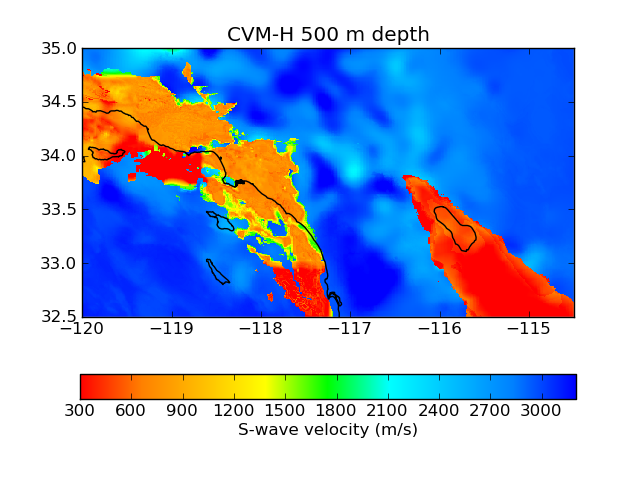
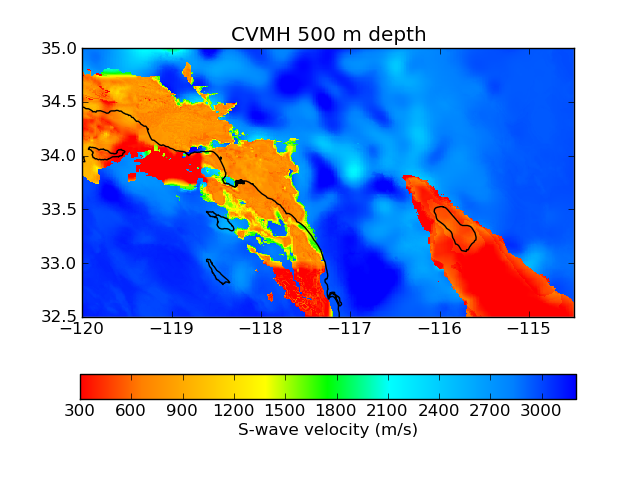
cvm

Changed region(s): [[0.3438, 0.0312, 0.6875, 0.0938]]

diff --git a/www/index.html b/www/index.html
@@ -3,11 +3,9 @@
 <html xmlns="http://www.w3.org/1999/xhtml" xml:lang="en" lang="en">
 <head>
 <meta http-equiv="Content-Type" content="text/html; charset=utf-8" />
-<meta name="generator" content="Docutils 0.6: http://docutils.sourceforge.net/" />
+<meta name="generator" content="Docutils 0.7: http://docutils.sourceforge.net/" />
 <title>Coseis</title>
 <style type="text/css">
-
-/* CSS stylesheet */
 
 body {
     max-width: 760px;
@@ -190,7 +188,7 @@ td {
 <li>The Support Operator Rupture Dynamics (<a class="reference external" href="sord.html">SORD</a>) code for modeling spontaneous
 rupture and 3D wave propagation.</li>
 <li>SCEC Community Velocity Models (CVM) codes, with MPI parallelization for
-<a class="reference external" href="http://www.data.scec.org/3Dvelocity/">version 4</a>, and new <a class="reference external" href="http://earth.usc.edu/~gely/cvmh/">geotechnical layer implementation</a> for the
+<a class="reference external" href="http://www.data.scec.org/3Dvelocity/">Magistrale version</a>, and new <a class="reference external" href="http://earth.usc.edu/~gely/cvmh/">geotechnical layer implementation</a> for the
 <a class="reference external" href="http://structure.harvard.edu/cvm-h/">Harvard version</a>.</li>
 <li><a class="reference external" href="http://scec.usc.edu/websims">WebSims</a> web application for cataloging, exploring, and disseminating large
 numerical simulations data sets.</li>
@@ -208,9 +206,9 @@ are frequent and it has known bugs!</p>
 <h3>System requirements</h3>
 <ul class="simple">
 <li><a class="reference external" href="http://www.python.org/">Python</a>, and <a class="reference external" href="http://numpy.scipy.org/">NumPy</a> (Numerical Python).</li>
-<li>(+) Fortran 95 compiler.  Required only for SORD and CVM4 modules.</li>
+<li>(+) Fortran 95 compiler.  Required only for SORD and CVM modules.</li>
 <li>(+) Message Passing Interface (MPI) library.  Required only for
-multiprocessing with SORD and CVM4.</li>
+multiprocessing with SORD and CVM.</li>
 <li>(+) <a class="reference external" href="http://matplotlib.sourceforge.net/">Matplotlib</a>, <a class="reference external" href="http://www.scipy.org/">SciPy</a>, and Pyproj Python packages.  Required only for
 supplemental plotting, signal processing, and mesh generation utilities.</li>
 <li>(+) <a class="reference external" href="http://git-scm.com/">Git</a> version control system.  Useful for development and staying updated
@@ -305,7 +303,7 @@ python setup.py --machine=tacc-ranger build path
 <h3>Examples</h3>
 <div class="section" id="cvm-depth-planes">
 <h4>CVM depth planes</h4>
-<img alt="../scripts/cvm/cvm4-vs500.png" src="../scripts/cvm/cvm4-vs500.png" />
+<img alt="../scripts/cvm/cvm-vs500.png" src="../scripts/cvm/cvm-vs500.png" />
 <img alt="../scripts/cvm/cvmh-vs500.png" src="../scripts/cvm/cvmh-vs500.png" />
 <p>Extract S-wave velocity at 500 meters depth. Plot using Matplotlib</p>
 <pre class="literal-block">
@@ -317,7 +315,7 @@ python plane.py
 </div>
 <div class="section" id="cvm-fence-diagram">
 <h4>CVM fence diagram</h4>
-<img alt="../scripts/cvm/cvm4-vp-fence.png" src="../scripts/cvm/cvm4-vp-fence.png" />
+<img alt="../scripts/cvm/cvm-vp-fence.png" src="../scripts/cvm/cvm-vp-fence.png" />
 <p>Build a fence diagram similar to Magistrale (2000) figure 10. Plot using
 Mayavi:</p>
 <pre class="literal-block">
@@ -327,9 +325,9 @@ python fence.py
 <p>Source code:
 <a class="reference external" href="../scripts/cvm/fence.py">fence.py</a></p>
 </div>
-<div class="section" id="cvm-4-basin-depth">
-<h4>CVM-4 Basin depth</h4>
-<img alt="../scripts/basindepth/cvm4-z25.png" src="../scripts/basindepth/cvm4-z25.png" />
+<div class="section" id="cvm-basin-depth">
+<h4>CVM Basin depth</h4>
+<img alt="../scripts/basindepth/cvm-z25.png" src="../scripts/basindepth/cvm-z25.png" />
 <p>Extract 3D mesh and search for the shallowest surface of Vs = 2.5 km/s.
 Plot over topography using Mayavi:</p>
 <pre class="literal-block">

diff --git a/www/sord.html b/www/sord.html
@@ -3,11 +3,9 @@
 <html xmlns="http://www.w3.org/1999/xhtml" xml:lang="en" lang="en">
 <head>
 <meta http-equiv="Content-Type" content="text/html; charset=utf-8" />
-<meta name="generator" content="Docutils 0.6: http://docutils.sourceforge.net/" />
+<meta name="generator" content="Docutils 0.7: http://docutils.sourceforge.net/" />
 <title>SORD</title>
 <style type="text/css">
-
-/* CSS stylesheet */
 
 body {
     max-width: 760px;
@@ -264,31 +262,31 @@ python example.py -i
 <a class="reference external" href="../scripts/sord/example.py">sim.py</a>:</p>
 <pre class="literal-block">
 #!/usr/bin/env python
-import cst                                # import the Coseis module
-delta = 100.0, 100.0, 100.0, 0.0075       # step length in (x, y, z, t)
-shape = 61, 61, 61, 60                    # mesh size in (x, y, z, t)
-fieldio = [                               # field variable input and output
-    ( '=',  'rho', [], 2670.0 ),          # material density
-    ( '=',  'vp',  [], 6000.0 ),          # material P-wave velocity
-    ( '=',  'vs',  [], 3464.0 ),          # material S-wave velocity
-    ( '=',  'gam', [], 0.3    ),          # material viscosity
-    ( '=w', 'v1',  [0,0,31,-1], 'vx' ),   # write X velocity slice output
-    ( '=w', 'v2',  [0,0,31,-1], 'vy' ),   # write Y velocity slice output
+import cst                                  # import the Coseis module
+delta = 100.0, 100.0, 100.0, 0.0075         # step length in (x, y, z, t)
+shape = 61, 61, 61, 60                      # mesh size in (x, y, z, t)
+fieldio = [                                 # field variable input and output
+    ( '=',  'rho', [], 2670.0 ),            # material density
+    ( '=',  'vp',  [], 6000.0 ),            # material P-wave velocity
+    ( '=',  'vs',  [], 3464.0 ),            # material S-wave velocity
+    ( '=',  'gam', [], 0.3    ),            # material viscosity
+    ( '=w', 'v1',  [0,0,31,-1], 'vx.bin' ), # write X velocity slice output
+    ( '=w', 'v2',  [0,0,31,-1], 'vy.bin' ), # write Y velocity slice output
 ]
-ihypo = 31.0, 31.0, 31.0                  # source location
-source = 'potency'                        # source type
-source1 = 1e6, 1e6, 1e6                   # source normal components
-source2 = 0.0, 0.0, 0.0                   # source shear components
-timefunction = 'brune'                    # source time function
-period = 6 * delta[3]                     # source dominant period
-cst.sord.run( locals() )                  # launch SORD job
+ihypo = 31.0, 31.0, 31.0                    # source location
+source = 'potency'                          # source type
+source1 = 1e6, 1e6, 1e6                     # source normal components
+source2 = 0.0, 0.0, 0.0                     # source shear components
+timefunction = 'brune'                      # source time function
+period = 6 * delta[3]                       # source dominant period
+cst.sord.run( locals() )                    # launch SORD job
 
 # plotting
 import numpy as np
 import matplotlib.pyplot as plt
 n  = shape[1], shape[0]
-vx = np.fromfile( 'run/out/vx', 'f' ).reshape( n )
-vy = np.fromfile( 'run/out/vy', 'f' ).reshape( n )
+vx = np.fromfile( 'run/vx.bin', 'f' ).reshape( n )
+vy = np.fromfile( 'run/vy.bin', 'f' ).reshape( n )
 vm = np.sqrt( vx * vx + vy * vy )
 fig = plt.figure( figsize=(3,3) )
 ax = plt.gca()

diff --git a/cst/cvm/__init__.py b/cst/cvm/__init__.py
@@ -19,7 +19,7 @@ input_template = """\
 %(vs_file)s
 """
 
-def _build( mode=None, optimize=None ):
+def _build( mode=None, optimize=None, version=None ):
     """
     Build CVM code.
     """
@@ -27,13 +27,15 @@ def _build( mode=None, optimize=None ):
 
     # configure
     cf = cst.conf.configure( 'cvm' )[0]
-    if not optimize:
-        optimize = cf.optimize
     if not mode:
         mode = cf.mode
     if not mode:
         mode = 'asm'
-    ver = 'cvm' + cf.version.replace('.', '')
+    if not optimize:
+        optimize = cf.optimize
+    if not version:
+        version = cf.version
+    ver = 'cvm' + version.replace('.', '')
 
     # download source code
     url = 'http://earth.usc.edu/~gely/coseis/download/%s.tgz' % ver
@@ -59,19 +61,19 @@ def _build( mode=None, optimize=None ):
     # compile ascii, binary, and MPI versions
     new = False
     if 'a' in mode:
-        source = 'iotxt.f', 'version%s.f' % cf.version
+        source = 'iotxt.f', 'version%s.f' % version
         for opt in optimize:
             compiler = [cf.fortran_serial] + shlex.split( cf.fortran_flags[opt] ) + ['-o']
             object_ = 'cvm-a' + opt
             new |= cst.conf.make( compiler, object_, source )
     if 's' in mode:
-        source = 'iobin.f', 'version%s.f' % cf.version
+        source = 'iobin.f', 'version%s.f' % version
         for opt in optimize:
             compiler = [cf.fortran_serial] + shlex.split( cf.fortran_flags[opt] ) + ['-o']
             object_ = 'cvm-s' + opt
             new |= cst.conf.make( compiler, object_, source )
     if 'm' in mode and cf.fortran_mpi:
-        source = 'iompi.f', 'version%s.f' % cf.version
+        source = 'iompi.f', 'version%s.f' % version
         for opt in optimize:
             compiler = [cf.fortran_mpi] + shlex.split( cf.fortran_flags[opt] ) + ['-o']
             object_ = 'cvm-m' + opt
@@ -106,7 +108,7 @@ def stage( inputs={}, **kwargs ):
     # build
     if not job.prepare:
         return job
-    _build( job.mode, job.optimize )
+    _build( job.mode, job.optimize, job.version )
 
     # check minimum processors needed for compiled memory size
     file = os.path.join( cst.path, 'build', ver, 'in.h' )

diff --git a/scripts/cvm/plane.py b/scripts/cvm/plane.py
@@ -20,14 +20,14 @@ z = np.empty_like( x )
 z.fill( depth )
 
 # CVM extractions
-vs4 = cst.cvm.extract( x, y, z, prop )
+vss = cst.cvm.extract( x, y, z, prop )
 vsh = cst.cvmh.extract( x, y, z, prop )
 
 # map data
 x, y = cst.data.mapdata( 'coastlines', 'high', (lon, lat), 100.0 )
 
 # plot
-for vs, tag in (vs4, '4'), (vsh, 'H'):
+for vs, tag in (vss, ''), (vsh, 'H'):
     fig = plt.figure( figsize=(6.4, 4.8) )
     ax = plt.gca()
     im = ax.imshow( vs, extent=lon+lat, cmap=cmap, vmin=vmin, vmax=vmax,
@@ -35,7 +35,7 @@ for vs, tag in (vs4, '4'), (vsh, 'H'):
     fig.colorbar( im, orientation='horizontal' ).set_label( label )
     ax.plot( x-360.0, y, 'k-' )
     ax.set_aspect( 1.0 / np.cos( 33.75 / 180.0 * np.pi ) )
-    ax.set_title( 'CVM-%s %.0f m depth' % (tag, depth) )
+    ax.set_title( 'CVM%s %.0f m depth' % (tag, depth) )
     ax.axis( lon+lat )
     f = 'cvm%s-%s%.0f.png' % (tag.lower(), prop, depth)
     print f

diff --git a/scripts/cvm/fence.py b/scripts/cvm/fence.py
@@ -9,7 +9,7 @@ import cst
 
 # parameters
 model = 'cvmh'
-model = 'cvm4'
+model = 'cvm'
 prop, vmin, vmax = 'vs', 500, 4000
 prop, vmin, vmax = 'vp', 1600, 6400
 dx = 200.0; dz = 50.0; nz = 201

diff --git a/scripts/basindepth/search.py b/scripts/basindepth/search.py
@@ -12,7 +12,7 @@ cell = 0
 up = 0
 delta = mesh.delta
 shape = mesh.shape
-path = os.path.join( mesh.workdir, 'cvm4' ) + os.sep
+path = mesh.rundir + os.sep
 
 # setup
 dz = delta[2]

diff --git a/doc/index.rst b/doc/index.rst
@@ -25,7 +25,7 @@ Coseis is an open-source toolkit for earthquake simulation featuring:
     rupture and 3D wave propagation.
 
 *   SCEC Community Velocity Models (CVM) codes, with MPI parallelization for
-    `version 4`__, and new `geotechnical layer implementation`__ for the
+    `Magistrale version`__, and new `geotechnical layer implementation`__ for the
     `Harvard version`__.
 
 *   WebSims_ web application for cataloging, exploring, and disseminating large
@@ -58,10 +58,10 @@ System requirements
 
 *   Python_, and NumPy_ (Numerical Python).
 
-*   (+) Fortran 95 compiler.  Required only for SORD and CVM4 modules.
+*   (+) Fortran 95 compiler.  Required only for SORD and CVM modules.
 
 *   (+) Message Passing Interface (MPI) library.  Required only for
-    multiprocessing with SORD and CVM4.
+    multiprocessing with SORD and CVM.
 
 *   (+) Matplotlib_, SciPy_, and Pyproj Python packages.  Required only for
     supplemental plotting, signal processing, and mesh generation utilities.
@@ -178,7 +178,7 @@ Examples
 CVM depth planes
 ----------------
 
-.. image:: ../scripts/cvm/cvm4-vs500.png
+.. image:: ../scripts/cvm/cvm-vs500.png
 .. image:: ../scripts/cvm/cvmh-vs500.png
 
 Extract S-wave velocity at 500 meters depth. Plot using Matplotlib
@@ -193,7 +193,7 @@ Source code:
 CVM fence diagram
 -----------------
 
-.. image:: ../scripts/cvm/cvm4-vp-fence.png
+.. image:: ../scripts/cvm/cvm-vp-fence.png
 
 Build a fence diagram similar to Magistrale (2000) figure 10. Plot using
 Mayavi::
@@ -204,10 +204,10 @@ Mayavi::
 Source code:
 `fence.py <../scripts/cvm/fence.py>`__
 
-CVM-4 Basin depth
------------------
+CVM Basin depth
+---------------
 
-.. image:: ../scripts/basindepth/cvm4-z25.png
+.. image:: ../scripts/basindepth/cvm-z25.png
 
 Extract 3D mesh and search for the shallowest surface of Vs = 2.5 km/s.
 Plot over topography using Mayavi::
